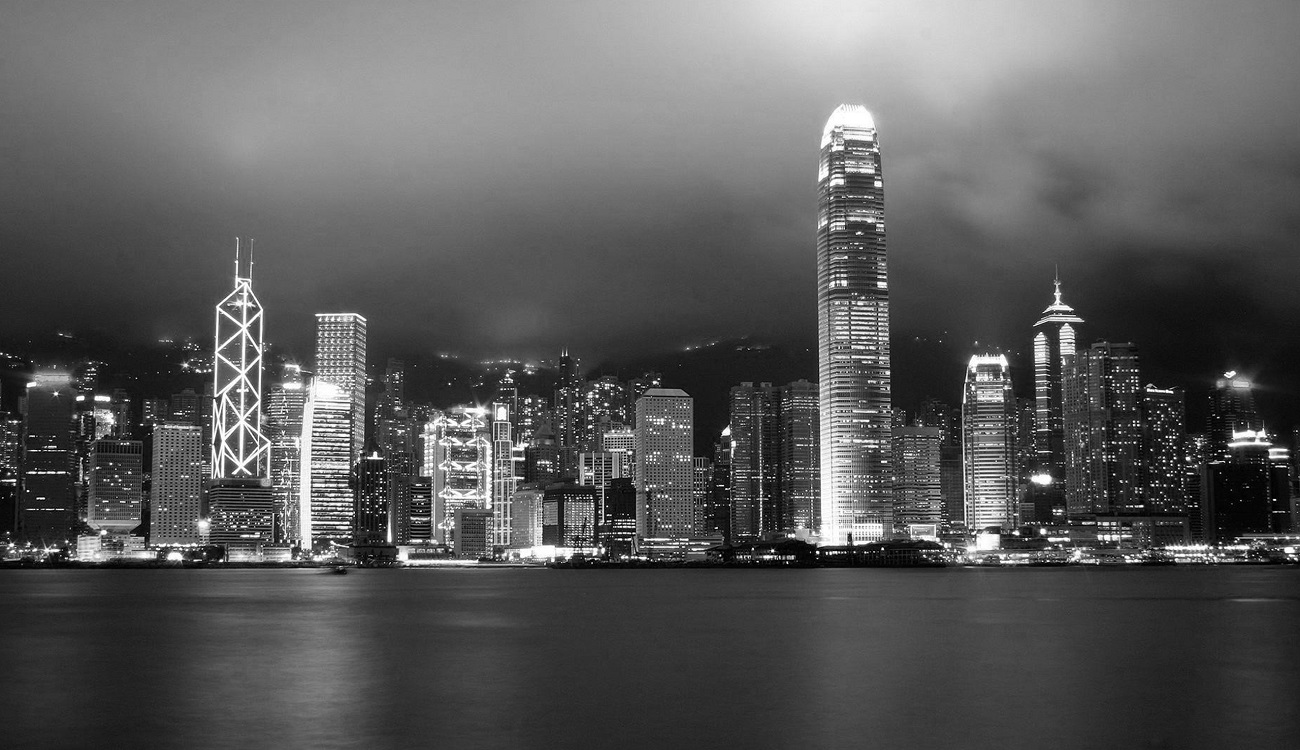
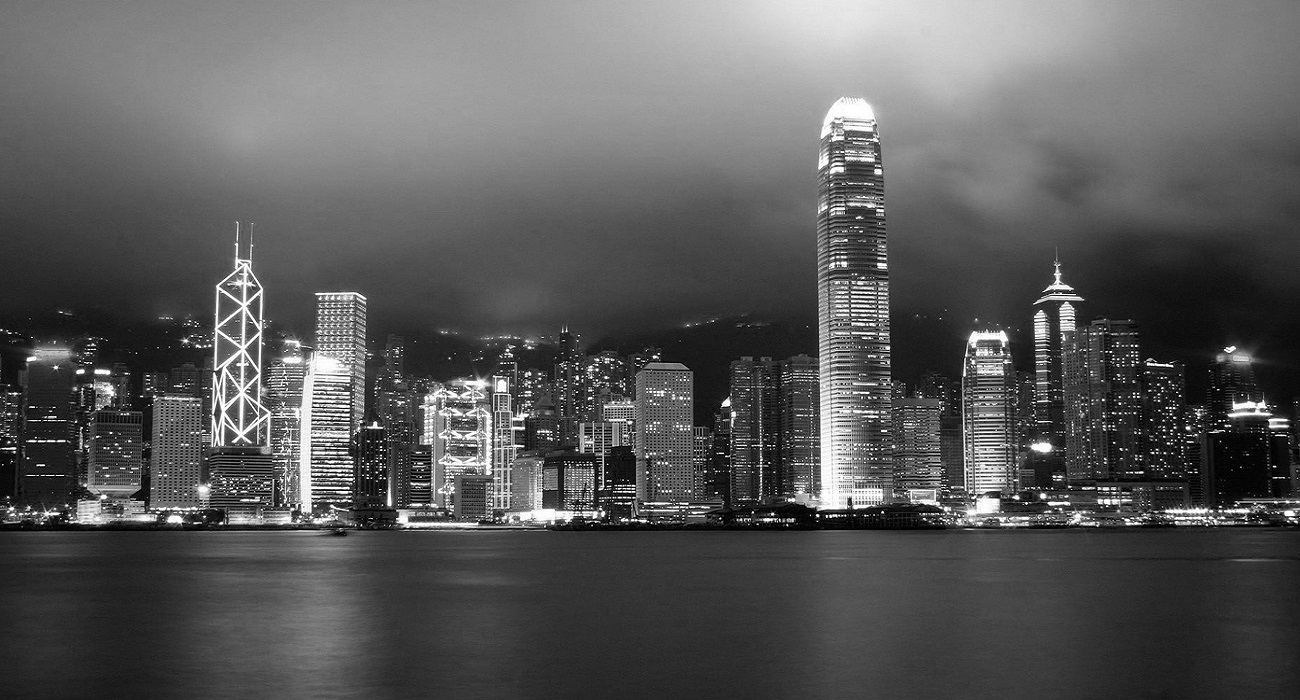
Resized the images on the slider

diff --git a/index.html b/index.html
@@ -24,7 +24,7 @@
                         <a href="https://www.facebook.com/"><img src="img/facebook.png"></a>
                     </li>
                     <li>
-                        <a href="https://twitter.com/"><img src="img/twitter.png"></a>
+                        <a href="https://twitter.com/nasroshar/"><img src="img/twitter.png"></a>
                     </li>
                     <li>
                         <a href="https://www.google.com/"><img src="img/google.png"></a>
@@ -82,7 +82,7 @@
                 <li>
                     <img src="img/sudan1.jpg" alt="Sudan 1" />
                     <div class="orbit-caption">
-                        Sudan 1
+                        Sudani Algewa Wegdana Baredo .. Ana
                     </div>
                 </li>
                 <li class="active">
@@ -103,12 +103,6 @@
                         Sudan 4 Photo
                     </div>
                 </li>
-                <!-- <li class="active">
-                    <img src="img/sudan5.jpg" alt="Sudan 5" />
-                    <div class="orbit-caption">
-                        Suadn 5 Photo
-                    </div>
-                </li> -->
                 <li>
                     <img src="img/sudanflag.png" alt="City 3" />
                     <div class="orbit-caption">
@@ -162,7 +156,7 @@
             <div class="panel callout radius">
                 <i class="fi-torsos-male-female"></i>
                 <h4 class="text-center">Our Goals</h4>
-                <p>In one or two sentences, it sums up the essence of your organization. </p>
+                <p>In one or two sentences, it sums up the essence of your organization. It guides your decision-making  </p>
                 <a class="button small" href="about.html">Learn More</a>
             </div>
         </div>
@@ -170,7 +164,7 @@
             <div class="panel callout radius">
                 <i class="fi-web"></i>
                 <h4 class="text-center">Our Services</h4>
-                <p>It guides your decision-making processes and should make people want to learn more about your organization.</p>
+                <p>processes and should make people want to learn more about your organization.</p>
                 <a class="button small" href="about.html">Learn More</a>
             </div>
         </div>
@@ -200,6 +194,30 @@
                 </div>
             </div>
         </div>
+        <div class="large-4 columns">
+                <div class="panel callout radius">
+                    <h4 class="text-center">Event Number 4</h4>
+                    <div class="flex-video widescreen vimeo">
+                        <iframe src="http://player.vimeo.com/video/60122989" width="400" height="225" frameborder="0" webkitAllowFullScreen mozallowfullscreen allowFullScreen></iframe>
+                    </div>
+                </div>
+            </div>
+            <div class="large-4 columns">
+                <div class="panel callout radius">
+                    <h4 class="text-center">Evenet Number 5</h4>
+                    <div class="flex-video widescreen vimeo">
+                        <iframe src="http://player.vimeo.com/video/60122989" width="400" height="225" frameborder="0" webkitAllowFullScreen mozallowfullscreen allowFullScreen></iframe>
+                    </div>
+                </div>
+            </div>
+            <div class="large-4 columns">
+                <div class="panel callout radius">
+                    <h4 class="text-center">Event Number 6</h4>
+                    <div class="flex-video widescreen vimeo">
+                        <iframe src="http://player.vimeo.com/video/60122989" width="400" height="225" frameborder="0" webkitAllowFullScreen mozallowfullscreen allowFullScreen></iframe>
+                    </div>
+                </div>
+            </div>
     </section>
 
 

diff --git a/css/style.css b/css/style.css
@@ -18,6 +18,7 @@ body {
 
 .slider {
     margin-top: 15px;
+    margin-bottom: 0px;
 }
 
 .boxes {
@@ -59,7 +60,7 @@ footer {
     margin-bottom: 15px;
     padding-top: 20px;
     text-align: center;
-    margin-top: 0%;
+    margin-top: 0px;
 }
 
 .top-bar {
